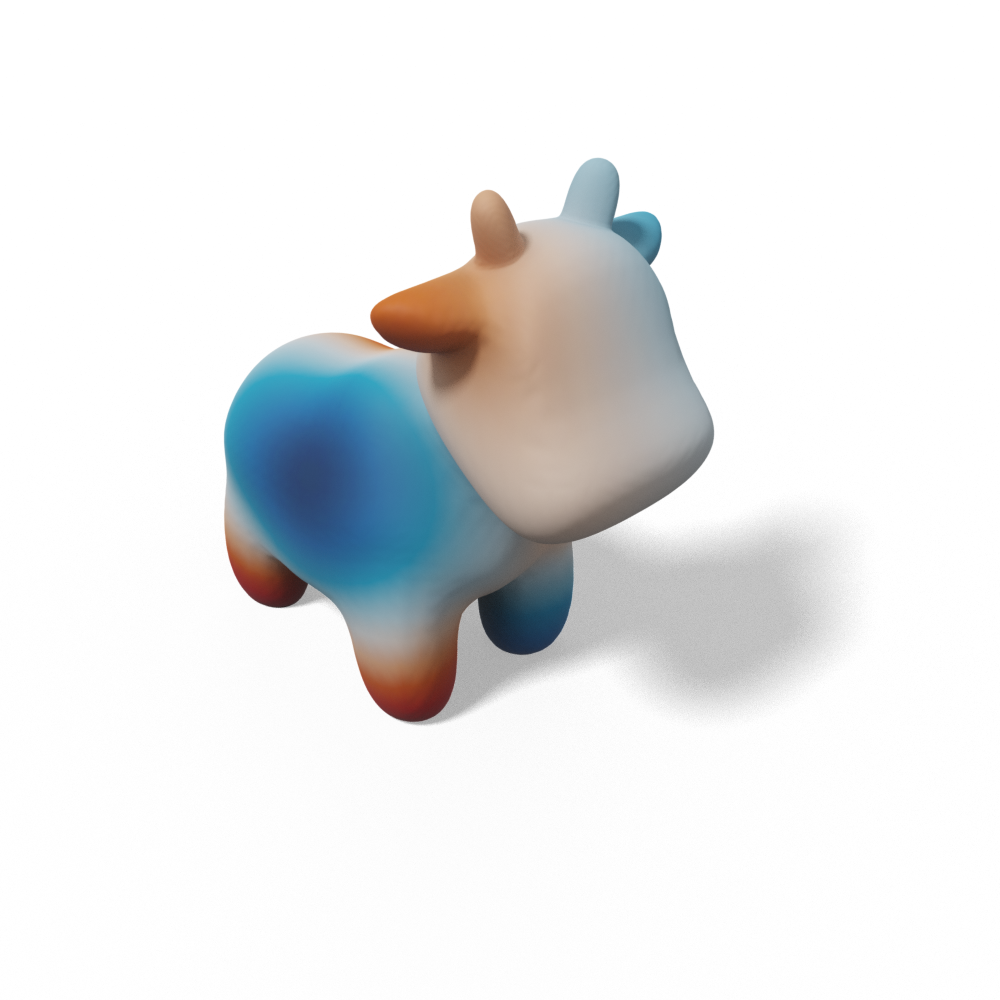
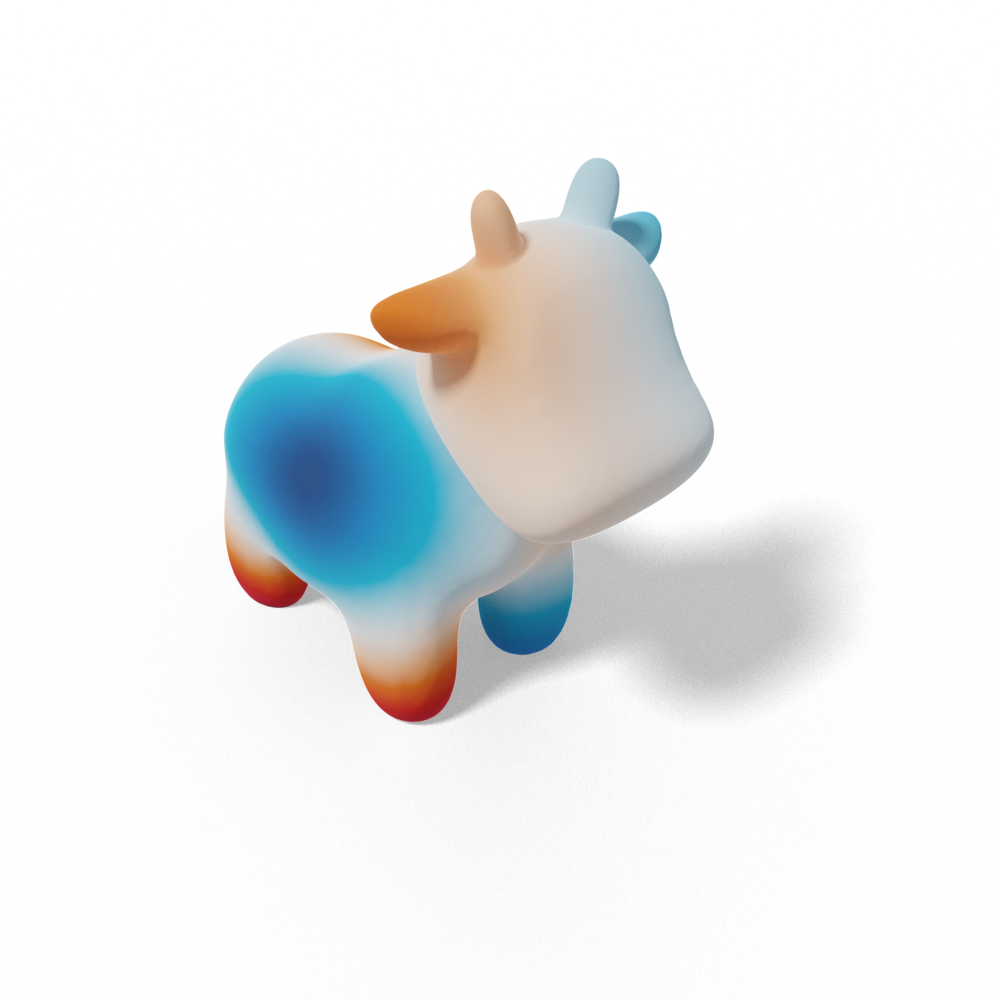
update vertex color function

Changed region(s): [[0.217, 0.155, 0.713, 0.744], [0.465, 0.186, 0.527, 0.279]]

diff --git a/utils/setMat_VColor.py b/utils/setMat_VColor.py
@@ -2,8 +2,7 @@ import bpy
 
 def setMat_VColor(mesh, \
 				saturation = 1.0, \
-				brightness = 1.0, \
-				AOStrength = 1.0):
+				brightness = 1.0):
 	mat = bpy.data.materials.new('MeshMaterial')
 	mesh.data.materials.append(mat)
 	mesh.active_material = mat
@@ -19,20 +18,6 @@ def setMat_VColor(mesh, \
 	tree.nodes["Hue Saturation Value"].inputs['Value'].default_value = brightness
 
 	# set principled BSDF
-	tree.nodes["Principled BSDF"].inputs['Roughness'].default_value = 0.7
+	tree.nodes["Principled BSDF"].inputs['Roughness'].default_value = 1.0
 	tree.nodes["Principled BSDF"].inputs['Sheen Tint'].default_value = 0
-
-	# add Ambient Occlusion
-	tree.nodes.new('ShaderNodeAmbientOcclusion')
-	tree.nodes.new('ShaderNodeGamma')
-	tree.nodes.new('ShaderNodeMixRGB')
-	tree.nodes["Mix"].blend_type = 'MULTIPLY'
-	tree.nodes["Gamma"].inputs["Gamma"].default_value = AOStrength
-	tree.nodes["Ambient Occlusion"].inputs["Distance"].default_value = 10.0
-
-	# link all the nodes
-	tree.links.new(tree.nodes["Hue Saturation Value"].outputs['Color'], tree.nodes['Ambient Occlusion'].inputs['Color'])
-	tree.links.new(tree.nodes["Ambient Occlusion"].outputs['Color'], tree.nodes['Mix'].inputs['Color1'])
-	tree.links.new(tree.nodes["Ambient Occlusion"].outputs['AO'], tree.nodes['Gamma'].inputs['Color'])
-	tree.links.new(tree.nodes["Gamma"].outputs['Color'], tree.nodes['Mix'].inputs['Color2'])
-	tree.links.new(tree.nodes["Mix"].outputs['Color'], tree.nodes['Principled BSDF'].inputs['Base Color'])
+	tree.links.new(tree.nodes["Hue Saturation Value"].outputs['Color'], tree.nodes['Principled BSDF'].inputs['Base Color'])

diff --git a/demo_vertPointCloud.py b/demo_vertPointCloud.py
@@ -1,6 +1,5 @@
 import sys
-sys.path.append('/Users/hsuehtil/Dropbox/BlenderToolbox2.8')
-sys.path.append('/home/hsuehtil/Dropbox/BlenderToolbox2.8')
+sys.path.append('/Users/hsuehtil/Dropbox/BlenderToolbox')
 
 from include import *
 import bpy
@@ -11,7 +10,7 @@ outputPath = './results/demo_vertPointCloud.png'
 imgRes_x = 1000 # should set to > 2000 for paper figures
 imgRes_y = 1000 # should set to > 2000 for paper figures
 numSamples = 100 # should set to >1000 for high quality paper images
-exposure = 1.8
+exposure = 2.0
 blenderInit(imgRes_x, imgRes_y, numSamples, exposure)
 
 # # read mesh 
@@ -23,9 +22,9 @@ mesh = readPLY(meshPath, location, rotation, scale)
 
 # # draw point cloud
 ptColor = (144.0/255, 210.0/255, 236.0/255, 0)
-ptSaturation = 1.7
+ptSaturation = 1.8
 ptBrightness = 0.8
-ptSize = 0.012
+ptSize = 0.014
 numPt = len(mesh.data.vertices) # this needs to be the number of vertices for vertex_point_cloud
 drawPointCloud(mesh, ptColor, ptSize, numPt, ptSaturation, ptBrightness)
 

diff --git a/demo_singleColor.py b/demo_singleColor.py
@@ -10,7 +10,7 @@ outputPath = './results/demo_singleColor.png'
 imgRes_x = 1000 # should set to > 2000 for paper figures
 imgRes_y = 1000 # should set to > 2000 for paper figures
 numSamples = 100 # should set to >1000 for high quality paper images
-exposure = 1.5 # need to double check
+exposure = 2.0 # need to double check
 blenderInit(imgRes_x, imgRes_y, numSamples, exposure)
 
 # read mesh 
@@ -29,10 +29,10 @@ level = 2
 subdivision(mesh, level)
 
 # # set material (option2: normal mode)
-saturation = 1.7
+saturation = 1.8
 brightness = 1.0
 meshColor = derekBlue
-AOStrength = 1.0
+AOStrength = 0.5
 setMat_singleColor(mesh, saturation, brightness, meshColor, AOStrength)
 
 # # set invisible plane (shadow catcher)

diff --git a/demo_vertexColor.py b/demo_vertexColor.py
@@ -10,7 +10,7 @@ outputPath = './results/demo_vertexColor.png'
 imgRes_x = 1000 # should set to > 2000 for paper figures
 imgRes_y = 1000 # should set to > 2000 for paper figures
 numSamples = 100 # should set to >1000 for high quality paper images
-exposure = 1.5
+exposure = 2.0
 blenderInit(imgRes_x, imgRes_y, numSamples, exposure)
 
 # # read mesh 
@@ -31,8 +31,7 @@ subdivision(mesh, level)
 # # set material (option3: show vertex color)
 saturation = 1.2
 brightness = 1.0
-AOStrength = 0.0
-setMat_VColor(mesh, saturation, brightness, AOStrength)
+setMat_VColor(mesh, saturation, brightness)
 
 # # set invisible plane (shadow catcher)
 groundCenter = (0,0,0)

diff --git a/demo_edge.py b/demo_edge.py
@@ -33,7 +33,7 @@ edgeThickness = 0.004
 edgeColor = (0,0,0,0)
 edgeColorSaturation = 1.0
 edgeColorBrightness = 1.0
-meshColor = (0.5,0.5,0.5,0)
+meshColor = (0.8,0.8,0.8,0)
 AOStrength = 1.0
 setMat_edge(mesh, edgeThickness, edgeColor, edgeColorSaturation, edgeColorBrightness, meshColor, AOStrength)
 
